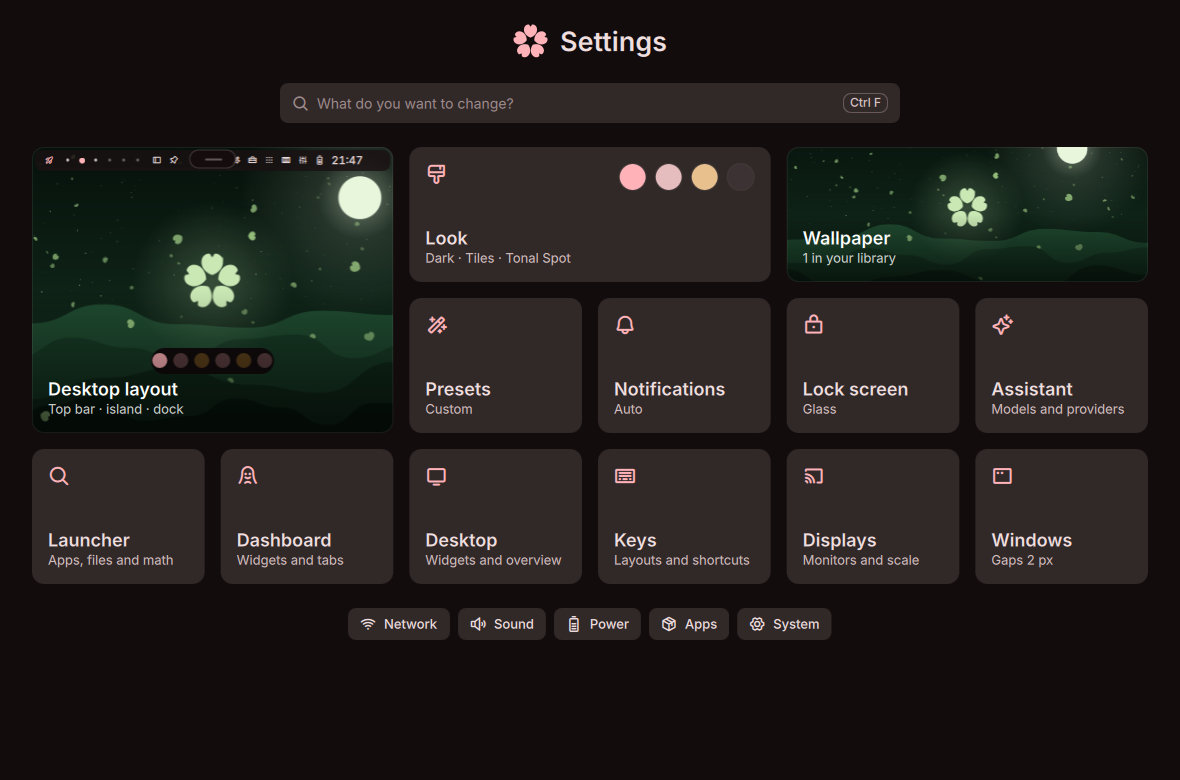
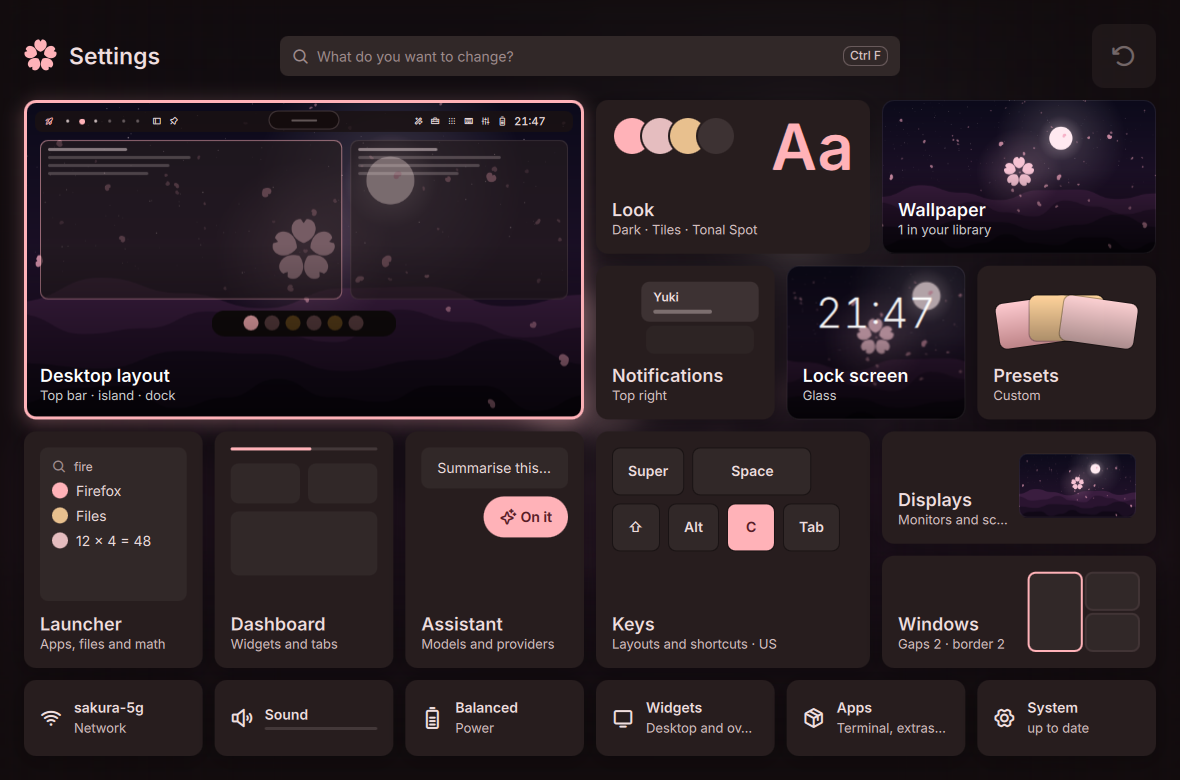
docs(settings): art direction v2 in the knowledge base, new proofs and motion clips
AGENTS.md: the ambient background and card surfaces, the home scenes and status tiles, the composed page (hero, side controls, the row of cards), the hero / row / part schema fields, the composition rule for converting a page, the render palette. docs/images/settings-redesign: home in the five visual languages and light, home search, Bar (edge hover, several bars, light), Island, Dock, Where things open (and mid-move), Look, Notifications, Lock screen, the undo pill, re-recorded motion clips; wallpaper-01 with the rose palette throughout. The before renders stay.

diff --git a/modules/settings/AGENTS.md b/modules/settings/AGENTS.md
@@ -7,12 +7,17 @@ the shell's showpiece and is schema driven: settings are *declared* in
 `schema/*.js` and rendered by generic components. Every change applies at
 once and can be undone; there is no Apply step.
 
-The frame is a **showcase**: it opens on a home screen (the brand, one big
-search "What do you want to change?", a bento of live tiles, a row of pills)
-and a tile grows into its destination. A destination page has no chrome but
-a back pill, its title and centred tabs; its body is a **hero** (the stage:
-a live miniature of what the tab controls, which you can also click to
-change things) over a **bento of cards** (one per schema section). Search,
+The frame is a **showcase** over an **ambient** background (kit Ambient:
+the wallpaper blurred, darkened and vignetted, so the window carries the
+desktop's colour). It opens on a home screen (the brand, one big search
+"What do you want to change?", undo, a bento of tiles that are each a small
+live scene of what they open, a row of wide status tiles) and a tile grows
+into its destination. A destination page is one composed screen: a round
+back button, its title, centred tabs and undo; the **hero** in the middle
+(the stage: a live miniature of what the tab controls, large, with a deep
+shadow, which you click to change things) with the controls that act on
+space beside it; then **one row of equal-height cards** that fills the
+width; then any other card in a bento. Search,
 modified / reset state, the CLI / MCP catalog and the audits are all
 generated from the same declarations.
 
@@ -41,9 +46,11 @@ modules/settings/
 ├── OpeningPill.qml         main shell: "Opening Settings..." while a window process starts
 ├── SettingsShell.qml       the frame: home <-> destination (shared-element growth), shortcuts,
 │                           UndoPill, preset overlays; select / openDestination / goHome / navigate
-├── SettingsHome.qml        brand, search (window rows, value shown), tile bento, pills, preset footer
-├── HomeTile.qml            one destination tile (kit Card): icon or picture, name, live status
-├── HomeTileArt.qml         a picture tile's art (wallpaper Stage, the Desktop layout ScreenMini), by URL
+├── SettingsHome.qml        brand, search (window rows, value shown), undo, tile bento, status tiles, preset footer
+├── HomeTile.qml            one destination tile (kit Card): its scene (home/<X>Scene.qml, by URL), name, status
+├── HomeStatusTile.qml      a wide status tile (network, sound level, power profile, widgets, apps, system)
+├── home/                   tile scenes: Layout (ScreenMini), Wallpaper, Lock, Look, Notif, Presets,
+│                           Launcher, Dashboard, Assistant, Keys, Displays, Windows; NameScrim
 ├── HomeStatus.js           pure: the tile's one live status line (tests/settings-home.test.cjs)
 ├── HomeLayout.js           pure: home columns, tile packing, arrow-key neighbours (same test)
 ├── DestinationHeader.qml   back pill, title, centred tabs (kit Segmented), Reset page
@@ -63,7 +70,7 @@ modules/settings/
 ├── Registry.js             names -> files: EDITORS, PREVIEWS, THUMBS, STAGES, PAGES
 ├── stages/                 Stage.qml (frame), ScreenMini.qml (the whole screen, in layers),
 │                           StageSpot.qml (highlight), EdgePicker.qml (move a part by its edge),
-│                           <Page>Stage.qml (Bar, Island, Dock, Opens, Notif, Look, Type)
+│                           <Page>Stage.qml (Bar, Island, Dock, Opens, Notif, Lock, Look, Type)
 ├── thumbs/                 picture-card thumbs (MiniScreen.qml: the wallpaper screen they draw on)
 ├── controls/               typed controls (Toggle, Slider, Selector, Number, Text, Font, ColorRole,
 │                           List, Path, Screens, Chips, Macro) + ChoiceCard, CardSelector
@@ -84,16 +91,30 @@ zero; draw shapes of a miniature with `Mark`, surfaces with `StyledRect` and
 the theme's variants). The window must look deliberate in every visual
 language (ink, glass, tiles, classic, device) and in dark and light; nothing
 branches on the language name (`Look`).
-- Home: the brand (sakura mark tinted with the accent + "Settings"), a boxed
-  `SearchField` (620 px), the bento (`HomeLayout.js`: 6 / 4 / 2 columns by
-  width, tiles big 2x2 / wide 2x1 / small 1x1, first-fit in reading order),
-  then the pills (kit `Chip`, quiet) and the preset footer. Tiles are kit
-  `Card`s (`interactive`: lift `Space.xs` and brighten on hover, spring on
-  press, FocusRing); Desktop layout is the real `ScreenMini` on your
-  wallpaper (windows slide in on hover), Wallpaper is the wallpaper (it
-  swells and follows the pointer: `Card.pointer` -> `Stage.imageShift`),
-  Look shows palette swatches; the others an accent icon. Each tile carries
-  its name (`title`) and one live status line (`secondary`).
+- Window background: kit `Ambient` (`source` = `SettingsStore.wallpaper`,
+  decoded tiny, blurred once into a cached layer, darkened, vignetted, a new
+  wallpaper cross-fades in; `plain` on battery saver). How much shows is
+  the language's (`VisualLanguage` `card.ambient` -> `Look.ambientStrength`).
+- Surfaces: kit `Card` = `Look.cardFill` / `cardEdge` / `cardShadow`
+  (VisualLanguage `card`: translucent with a hairline in ink and glass,
+  solid in tiles / device / classic, a soft RectangularShadow); `accented`
+  rings and glows the card the screen is about.
+- Home: header (brand, a boxed `SearchField`, undo), the bento
+  (`HomeLayout.js`: a 12-column grid of half-row units, 6 columns when
+  narrow, Categories.HOME gives `w` x `h`, first-fit in reading order, the
+  rows stretched by `rowUnit` so header + bento + status tiles fill the
+  window), the status tiles (`HomeStatusTile`, Categories.PILLS) and the
+  preset footer. Each tile is a kit `Card` (`interactive`: lifts and its
+  shadow deepens on hover, springs on press, FocusRing) with a scene from
+  real state (home/*.qml, `required property Card tile`): the screen
+  miniature (the accented hero), palette + "Aa", the wallpaper (swells and
+  follows the pointer: `Card.pointer` -> `Stage.imageShift`), a toast stack
+  in the resolved corner, the lock clock, preset cards, a launcher, widgets,
+  a chat, keycaps, the monitor arrangement (DisplaysService), tiled windows
+  with the configured gap / border. Name = `title` role, status one size
+  down (`secondary`). A scene must not declare a property named like an
+  Item anchor line (`top`, `bottom`, `left`, `right`, ...): it hangs the
+  type loader.
 - Opening: a box grows from the tile to the window (Motion.glide) while
   home recedes and the page fades in; going back reverses it. A deep link
   (`<app> run settings <id>`, `GlobalStates.settingsCategory` at open)
@@ -102,12 +123,17 @@ branches on the language name (`Look`).
   the tabs centred (`Segmented`, `focusable`, Left / Right), Reset page on
   the right; a tab to the right slides the page in from the right
   (`SettingsPageHost.direction`).
-- Page body: the hero stage (at most 760 px wide, centred) that scales down
-  and fades as the cards scroll over it (`recede`), then the bento: one kit
-  `Card` per section, its title as the card label, packed by
-  `BentoLayout.js` in 1 to 3 columns (a card with picture cards, an editor,
-  a list or `"span": 2` takes two; a page whose cards are all wide uses two
-  columns, centred, instead of leaving a third empty).
+- Page body (SettingsPage): the hero = the stage as large as the window
+  allows (16:9, at most half the page height) with a deep shadow, the
+  category's `hero.left` / `hero.right` entries beside it (side columns:
+  a custom editor bare, toggles each in a small card) and `hero.hint` under
+  it; it scales down and fades as the cards scroll over it. Then the
+  category's `row` sections in one row of equal widths and heights, then the
+  other sections in a bento (`BentoLayout.js`, 1 to 3 columns; a card with
+  picture cards, an editor, a list or `"span": 2` takes two). A card
+  (SettingsSection) has a heading (`title` role) with the current value on
+  the right when it holds one setting; such a card's picture / editor row
+  drops its own label (`SettingRow.bare`).
 - Rows: label `body`, control flush right (inline) or full width under the
   label (cards, editors, lists, and sliders / selectors / text fields in a
   narrow card); hover / focus = the language's hover box; a search jump =
@@ -118,11 +144,14 @@ branches on the language name (`Look`).
 - Stage: `Stage` = wallpaper (palette backdrop without one) in a rounded,
   hair-lined frame, Look.radius("surface"); the miniature on top.
 - Undo pill: popup surface, springs in, stays 5 s (longer while hovered).
-Render: `tools/render/settings_render.py --wallpaper assets/wallpapers_example/wallpaper-03.png
+Render: `tools/render/settings_render.py --wallpaper assets/wallpapers_example/wallpaper-01.png --palette default
 --languages ink,glass,tiles,classic,device [--mode light] [--size 1180x2400] home|PAGE...`
 (`home` with `--search Q` shows results, `--hover ENTRY` lights a stage part,
 `--undo` shows the pill, `--eval barEdgePicker:preview='left'` a hovered
-edge). Motion: `tools/render/settings_motion.py [tile-hover tile-open
+edge, `--eval opensStage:picked='dashboard'` Where things open mid-move).
+Colours come from the wallpaper (matugen, or `tools/render/wallpaper_palette.py`
+with the `materialyoucolor` package) unless `--palette default` (the rose
+palette, which belongs with wallpaper-01). Motion: `tools/render/settings_motion.py [tile-hover tile-open
 edge-click]` writes animated WebP + GIF at real speed.
 
 ## NAVIGATION
@@ -266,11 +295,16 @@ under-row preview, unconverted pages only), `component` (custom editor),
 (font), `resettable: false`, `compositor`, `id`, `target` (PageLink),
 `invert` (a toggle shown on for false), `surface` (a host picker's surface
 id: the row notes "Island is off - shown as X"; the stage draws it).
+`part: true` (an editor of one part of a composite value that another entry
+also edits, e.g. the bars list beside the stage and the selected bar's
+fields; exempt from the one-control check).
 Section fields: `id`, `title`, `entries`, `advanced: true` (the whole section
-is out of the window), `compositor`. A section shows only while one of its
-rows does. Category fields: `id`, `icon`, `title` (the tab label),
+is out of the window), `compositor`, `span`. A section shows only while one
+of its rows does. Category fields: `id`, `icon`, `title` (the tab label),
 `description`, `keywords`, `sections`, `stage` (Registry.STAGES name) or
-`page` (Registry.PAGES name).
+`page` (Registry.PAGES name), `hero` (`{left: [key|id], right: [key|id],
+hint: i18n key}`: entries shown beside the stage instead of in their card),
+`row` (section ids: the row of cards under the stage).
 
 Control mapping (applied everywhere): on / off -> `toggle` (Switch);
 2 to 5 visual options -> `selector` + `display: "cards"` + `thumb`;
@@ -338,9 +372,14 @@ Reference pages: Desktop layout (`schema/bar.js`, `notch.js`, `dock.js`,
    `SettingsStore.transaction("prefs.undo.<thing>_moved", ...)`: a
    `prefs.undo.*` label names itself in the undo pill ("Bar moved"). Keep
    the row (cards / segmented) too: it is the keyboard path.
-6c. Cards: sections are the cards; give a section a short title (two
-   words) and keep a card to one concept. `"span": 2` on a section when its
-   content needs the width and BentoLayout.spanOf does not see it.
+6c. Composition (the page2 standard): hero in the middle, spatial controls
+   on and beside it (`hero.left`: lists such as the bars with "Add a bar";
+   `hero.right`: the two or three behaviour switches; `hero.hint`: one line
+   saying what a click on the stage does), then ONE row of equal-height
+   cards (`row`, two to four sections) that fills the width, then the rest.
+   Sections are the cards: a short title (two words), one concept each;
+   `"span": 2` when the content needs the width. Aim for no scrolling at
+   1180x780 on the main tab of a destination.
 7. Wire row highlights: give each part a `StageSpot { keys: [...] }` with
    the keys (prefixes) of the rows that change it. A spot must not sit
    inside a `StyledRect` (it clips its children): put it beside the part
